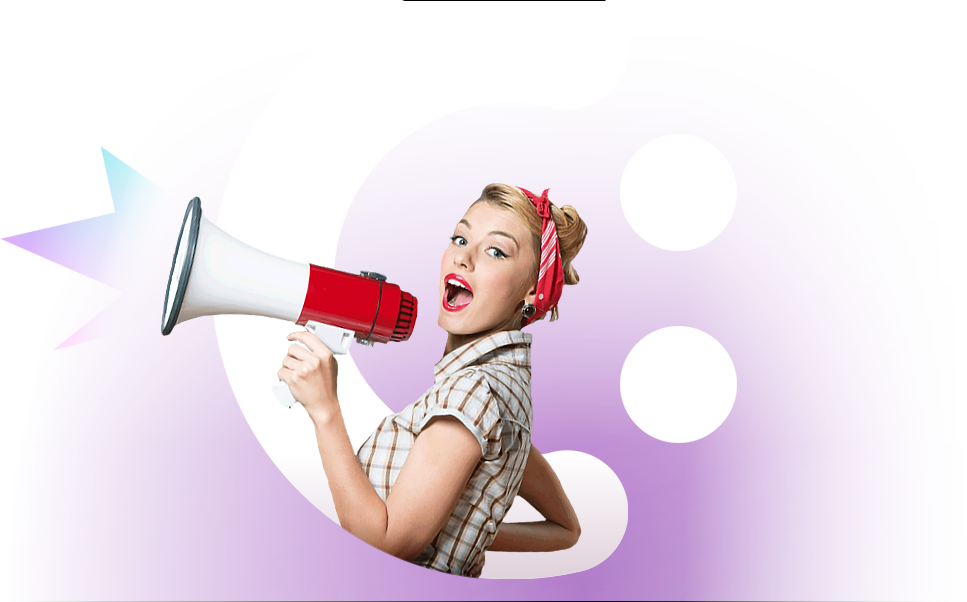
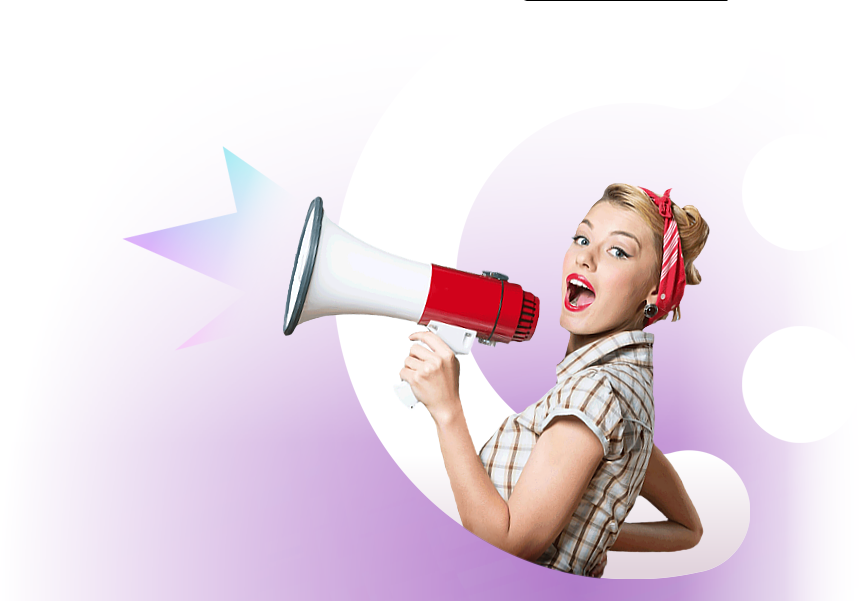
test

diff --git a/main.css b/main.css
@@ -159,6 +159,7 @@ input {
 .header {
     position: relative;
     width: 100%;
+    min-width: 1000px;
     height: 600px;
     z-index: 10;
 }
@@ -168,7 +169,7 @@ input {
 }
 
 .header__logo img {
-    margin-left: 65px;
+    /* margin-left: 65px; */
     margin-top: 50px;
 }
 
@@ -176,15 +177,14 @@ input {
     display: block;
     color: white;
     text-transform: uppercase;
-    margin-left: 65px;
-    /* margin-top: 200px; */
+    /* margin-left: 65px; */
     font-size: 40px;
     font-weight: 900;
 }
 
 .head p {
     text-transform: uppercase;
-    margin-left: 65px;
+    /* margin-left: 65px; */
     font-size: 16px;
     color: white;
 }
@@ -195,18 +195,20 @@ input {
     align-items: center;
     width: 100%;
     height: 100%;
+    padding: 0;
 }
 .head1 {
-    background: #7B15AD url('img/up/internet_add.png') no-repeat 140%;
+    background: #7B15AD url('img/up/internet_add.png') no-repeat 80%;
+    
 }
 .head2 {
-    background: #F56B57 url('img/up/seo.png') no-repeat 140%;
+    background: #F56B57 url('img/up/seo.png') no-repeat 80%;
 }
 .head3 {
-    background: #FFCC00 url('img/up/sites.png') no-repeat 140%;
+    background: #FFCC00 url('img/up/sites.png') no-repeat 80%;
 }
 .head4 {
-    background: #67C3E1 url('img/up/design.png') no-repeat 140%;
+    background: #67C3E1 url('img/up/design.png') no-repeat 80%;
 }
 
 
@@ -283,9 +285,13 @@ input {
     .head2 { animation-name: fadeImg-2; }
     .head3 { animation-name: fadeImg-3; }
     .head4 { animation-name: fadeImg-4; }
-    .head { animation-duration: 16s; animation-iteration-count: infinite; }
+    .head { animation-duration: 16s; animation-iteration-count: infinite; } 
+}
+@media screen and (max-width: 1540px) {
+    
     
 }
+
 
 
 /* KEYFRAMES */

diff --git a/main.html b/main.html
@@ -27,7 +27,7 @@
     <header>
         <div class="header container-fluid">
             <div class="row">
-                <div class="header__logo container-fluid d-none d-lg-block"><img src="img/logo.png" alt="logo"></div>
+                <div class="header__logo container d-none d-lg-block"><img src="img/logo.png" alt="logo"></div>
         
                 <div class="head head1 col"><div class="container"><span>Реклама<br> в интернете</span></div></div>
                 <div class="head head2 col op0"><div class="container"><span>Продвижение<br> в соцсетях</span><p>Instagram, Вконтакте и т.д.</p></div></div>
